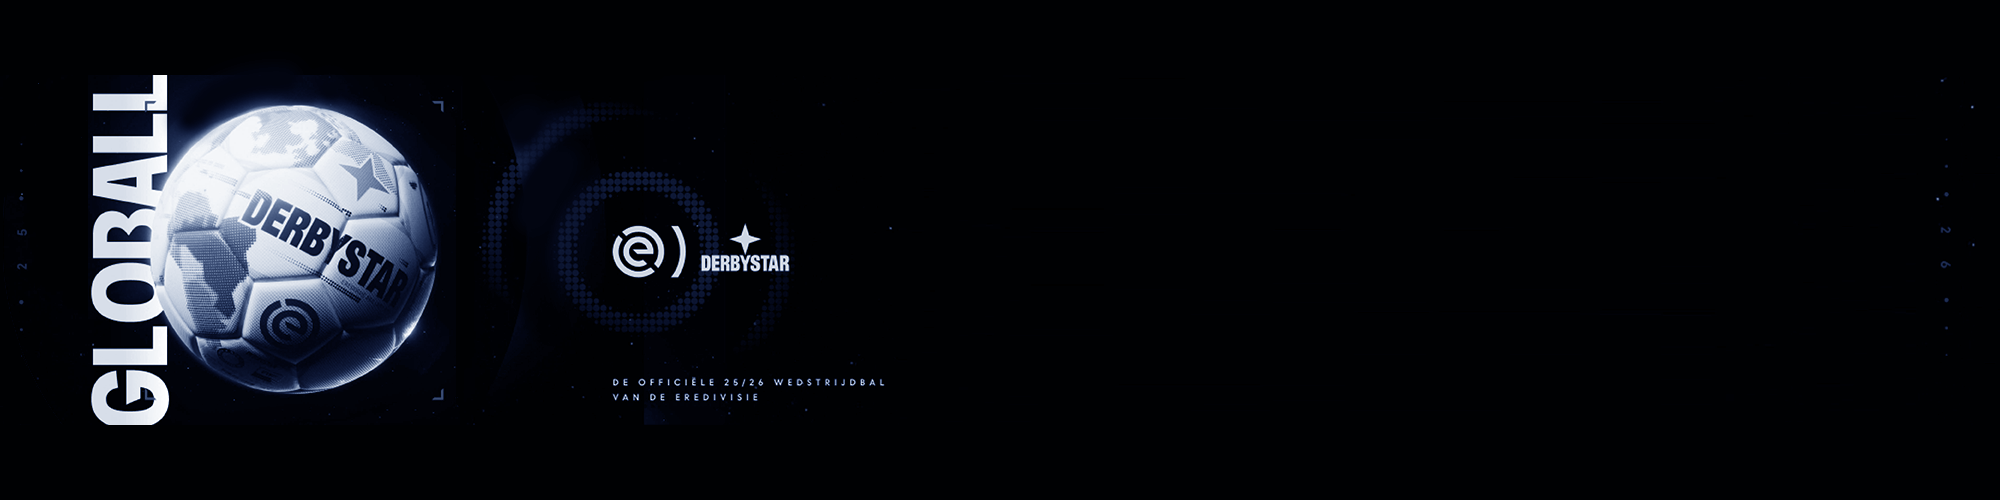
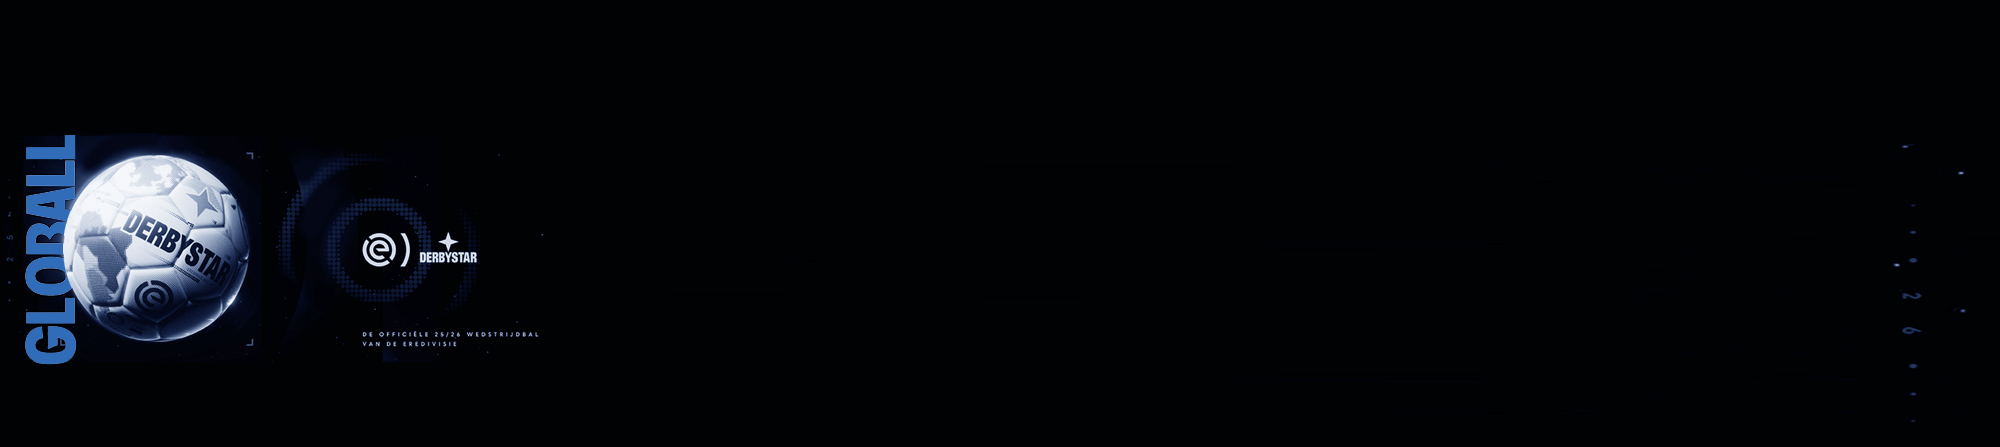
footer

diff --git a/frontend/src/styles/Footer.module.css b/frontend/src/styles/Footer.module.css
@@ -1,40 +1,91 @@
 .footer {
-  display: flex;
-  align-items:flex-end;
-  justify-content: space-around;
-  flex-direction: column;
+  position: relative;
   width: 100%;
   max-width: 2000px;
-  margin: 180px auto 0;
+  margin: 180px auto 0 auto;
   height: 500px;
-  background: #000000;
-background: rgba(0, 2, 3, 1);
- background-image: url("../images/derbystar2025.png");
- background-repeat: no-repeat;
+  background-image: url("../images/derbystar2025.png");
+  background-repeat: no-repeat;
   background-position: left;
   background-size: cover;
+}
+
+.footerTitleWrapper {
+  width: 100%;
+  display: flex;
+  align-items: center;
+  justify-content: flex-start;
+  margin-top: 1rem;
+  margin-left: 2rem;
+  margin-right: 2rem;
+  border-bottom: 1px solid rgb(49, 108, 184);
+  padding-bottom: 1rem;
+}
+
+.logo {
+  display: flex;
+  align-items: center;
+  justify-content: center;
+  height: 0.75em;
+  width: 0.75em;
+  margin-top: 4px;
+  margin-right: 10px;
+}
+
+.eredivisie {
+  color: rgb(49, 108, 184);
+  display: flex;
+  align-items: flex-start;
+  justify-content: flex-start;
+  flex-direction: row;
+  width: 100%;
+  height: auto;
+  font-family:
+    -apple-system, BlinkMacSystemFont, "Segoe UI", Roboto, Oxygen, Ubuntu,
+    Cantarell, "Open Sans", "Helvetica Neue", sans-serif;
+  font-size: calc(20px + (24 - 20) * ((100vw - 320px) / (2000 - 320)));
+  font-weight: bold;
+}
+
+.colofon {
+  position: absolute;
+  width: 100%;
+  max-width: 2000px;
+  left: 0;
+  bottom:0;
+  display: flex;
+  align-items: center;
+  justify-content: center;
+  color: rgb(49, 108, 184);
+  padding-bottom: .7rem;
+  padding-top: .7rem;
+  background-color: rgb(2, 16, 34);
+  font-size: calc(12px + (24 - 12) * ((100vw - 320px) / (2000 - 320)));
+}
+
+/* .colofonContent {
+  width: 100%;
+  max-width: 2000px;
+  display: flex;
+  align-items: center;
+  justify-content: center;
+} */
+
+@media only screen and (max-width: 410px) {
+  .eredivisie {
+    font-size: calc(20px + (32 - 20) * ((100vw - 320px) / (2000 - 320)));
+  }
+  .footerTitleWrapper {
+    justify-content: center;
+  }
 }
 
 @media only screen and (max-width: 600px) {
   .footer {
     height: 300px;
   }
-}
-
-.erelogo {
-  width: 100%;
-  height: auto;
-}
-
-.ball {
-   width: 100px;
-  height: auto;
-}
-
-@media only screen and (max-width: 600px) {
-  .ball {
-    width: 80px;
+  .footerTitleWrapper {
+    margin-left: 1rem;
+    margin-right: 1rem;
   }
-
 }
-

diff --git a/frontend/src/components/Footer.jsx b/frontend/src/components/Footer.jsx
@@ -1,19 +1,24 @@
-import React from 'react'
+import React from "react";
 //import { useWindowWidth } from 'react-window-size-hooks';
-import styles from '../styles/Footer.module.css'
-import derbystar65 from '../images/derbystar.png'
-import logo from '../images/derbystar2025.png'
+import styles from "../styles/Footer.module.css";
+import logo from "../images/eredivisielogo_blue.png";
 
 const Footer = () => {
-
-    return (
-        <div className={styles.footer}>
-           
-            {/* <div className={styles.logo} ><img src={logo} alt="" className={styles.erelogo} /></div> */}
-            {/* <div className={styles.derbystar} ><img src={derbystar65} alt="" className={styles.ball} /></div> */}
-
+  return (
+    <div className={styles.footer}>
+      <div className={styles.eredivisie}>
+        <div className={styles.footerTitleWrapper}>
+          <div>
+            <img src={logo} alt="Eredivisie Logo" className={styles.logo} />
+          </div>
+          <div>KNVB Eredivisie 2025-2026</div>
         </div>
-    )
-}
+      </div>
+      <div className={styles.colofon}>
+        &copy;webdevelopment by noudvandun
+        </div>
+    </div>
+  );
+};
 
-export default Footer
+export default Footer;

diff --git a/frontend/src/components/Home.jsx b/frontend/src/components/Home.jsx
@@ -8,9 +8,6 @@ import goal3_small from "../images/goal3_small.jpg";
 import goal4 from "../images/goal4.jpg";
 import goal_small from "../images/goal_small.jpg";
 import goal4_small from "../images/goal4_small.jpg";
-import ueda from "../images/ueda.png";
-import till from "../images/till.png";
-import saibari from "../images/saibari.png";
 import Uitslagen from "./Uitslagen";
 import Stand from "./Stand";
 import Recent from "./Recent";
